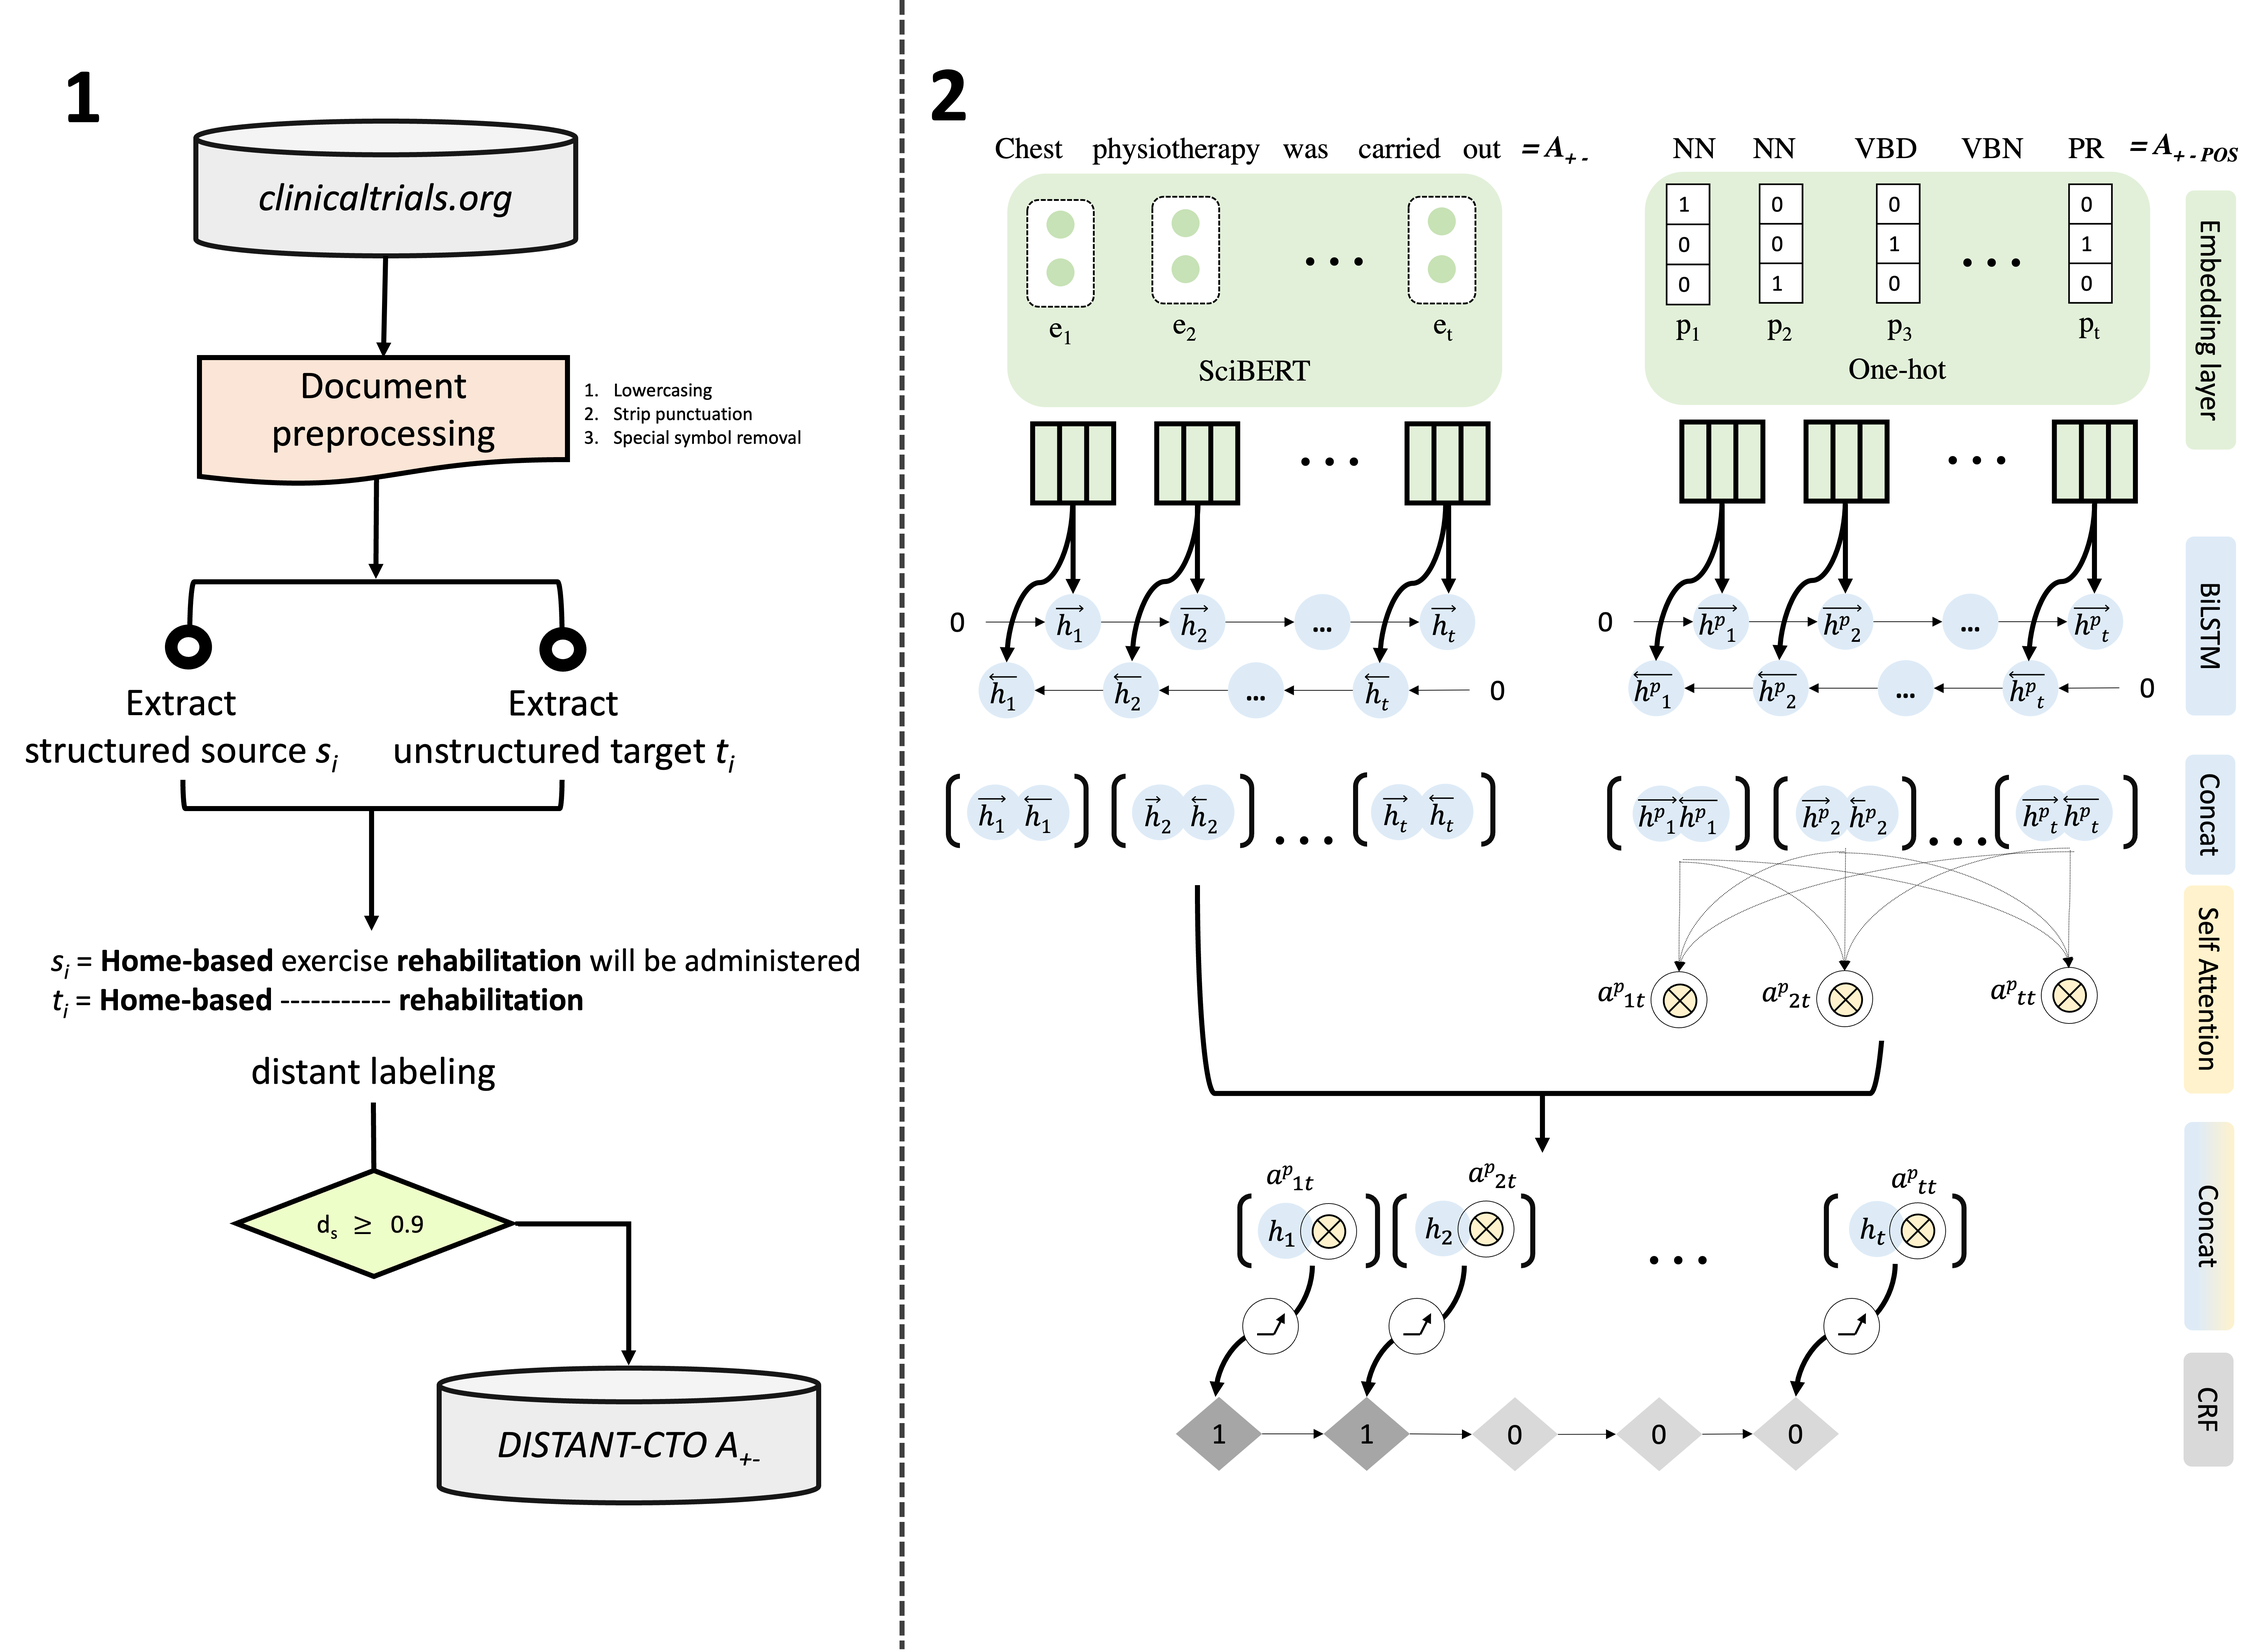
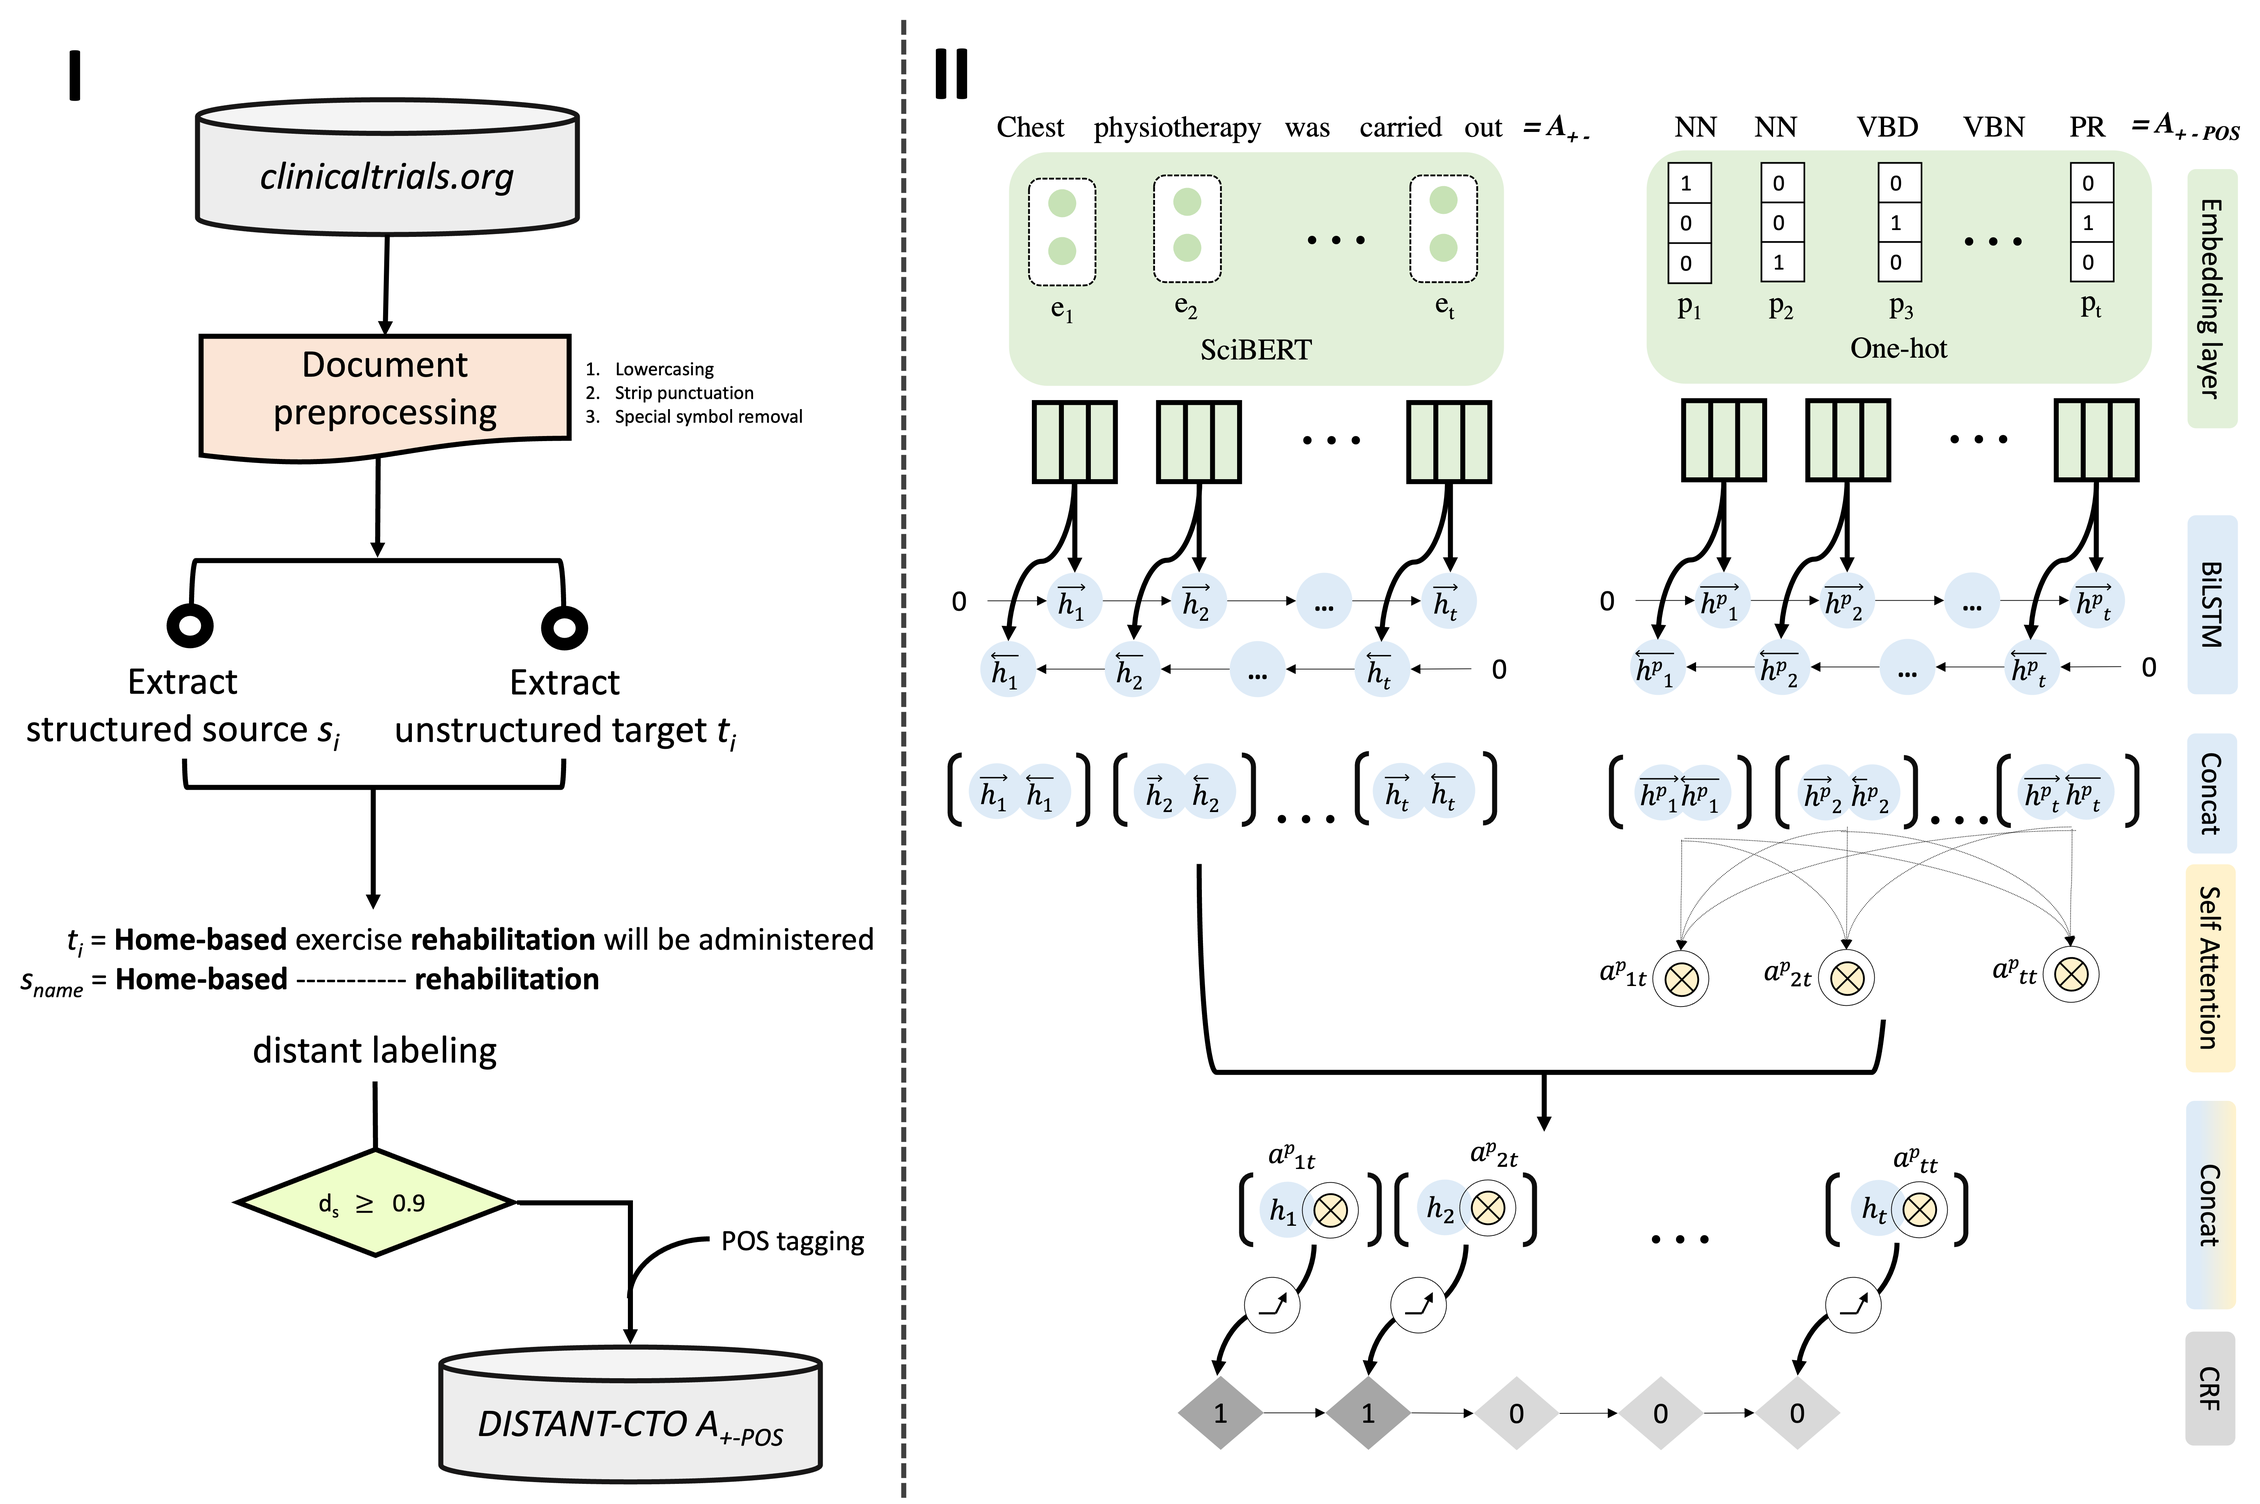
further changes according to BioNLP 2022 review

diff --git a/acl_latex.tex b/acl_latex.tex
@@ -115,7 +115,7 @@ We summarize our contributions as follows:
 %
 A decade of automatic PICO information extraction was limited to sentence-level due to the unavailability of entity-annotated corpora~\citep{boudin2010combining, huang2011classification, huang2013pico, wallace2016extracting, jin2018pico}.
 The release of the EBM-PICO corpus paved the way for the community to improve upon the PICO entity/span extraction task.~\citep{nye2018corpus}.
-The corpus is biased towards pharma intervention class overshadowing non-pharma ones leading to a substandard performance on it in the previous SOTA fully-supervised PICO entity/span recognition models~\citep{beltagy2019scibert,brockmeier2019improving,zhang2020unlocking} and weakly supervised PICO span recognition models~\citep{liu2021sent2span}.
+The corpus is biased towards pharma intervention class overshadowing non-pharma ones leading to a substandard performance on it in the previous SOTA fully-supervised PICO entity/span recognition models~\citep{beltagy2019scibert,brockmeier2019improving,zhang2020unlocking} and weakly supervised model~\citep{liu2021sent2span}.
 Small-scale annotation projects cannot capture the range and variation for the PICO descriptions spanning the entirety of clinical trials literature.
 At some point, applications of such static corpora will confront the problem of insufficient and irrelevant annotations.
 In reality, manual annotation projects are neither affordable nor scalable for every lab thereby limiting innovation.
@@ -241,12 +241,13 @@ Next, for all $A_{+-}$ instances we fetch part-of-the-speech (POS) tags using {\
 We call the resulting dataset DISTANT-CTO set.
 POS tags are added as additional features as they have shown to help model generalization~\cite{augenstein2017generalisation}.
 {\tt difflib} in combination with the internal scoring function are previously unexplored for automatic entity annotation generation.
+It has to be noted that the method depends on availability of short source texts with the possibility that they will be mentioned in longer target texts.
 %
 %
 %
 \begin{figure*}[ht]
     \centering
-    \includegraphics[width=\textwidth]{figures/process.png}
+    \includegraphics[width=0.98\textwidth]{figures/process.png}
     \caption{DISTANT-CTO approach - I) Distantly-supervised candidate generation approach, and II) Distantly-supervised NER model architecture.}
     \label{fig:approach}
 \end{figure*}
@@ -374,7 +375,7 @@ token-level & 1,515,868 & 43,096 \\
 %
 %
 Metrics for the manual evaluation of DISTANT-CTO using the validation set show that adding annotations with $d_s$ of 0.9 increases the recall by 3\% and hence the overall F1, however, leading to an expected drop in the precision (see Table ~\ref{tab:cangen_eval}).
-Finer characteristics of the DISTANT-CTO set are explained in the Appendix.
+%Finer characteristics of the DISTANT-CTO set are explained in the Appendix.
 
 \begin{table}[!htbp]
 \centering
@@ -493,7 +494,7 @@ Improving the coverage and reducing the false negatives (thereby improving recal
 Most false positives were a result of bigram matching. 
 We will modify fuzzy bigram matching to relevant bigram matching thereby reducing the occurrences of spurious false positive bigrams as matches.
 Only frequently occurring bigrams from the source will be matched to the targets.
-Additionally, we plan to explore the quality of DISTANT-CTO if $d_s$ score is lower than 0.9.
+We plan to explore the quality of DISTANT-CTO for $d_s \leq$ 0.9.
 %
 \begin{table}[ht]
     \centering
@@ -523,7 +524,8 @@ Additionally, we plan to explore the quality of DISTANT-CTO if $d_s$ score is lo
 %Addition of $d_s =$ 0.9 annotations while training with DISTANT-CTO alone, deteriorates metrics across the benchmarks increasing the errors (compare Figure~\ref{fig:NEReval1} with~\ref{fig:NEReval2}).
 %Addition of $d_s =$ 0.9 annotations, however, improves recall for the combined training with DISTANT-CTO and EBM-PICO for the pharma-dominant dataset.
 Manual error analysis was carried out for both the PICO benchmarks and the error counts for EBM-PICO gold are reported in Table~\ref{tab:error_ner}.
-Each token level error was divided into either of the four classes: 1) false negative (FN) - if the entire entity that the token as part of was missed out by the NER model prediction, 2) false positive (FP) - if the entire entity that the token was part of was falsely recognized as ``Intervention'', 3) boundary error (BE) - if the boundary tokens were missed out but otherwise the entity was identified by the NER model prediction, and 4) overlapping error (OE) - if the NER model made an error in the non-peripheral tokens of an otherwise identified entity mention. Non-peripheral tokens are all tokens except the first and the last token of the multi-token entity or span.
+Each token level error was divided into either of the four classes: 1) false negative (FN) - if the entire entity that the token as part of was missed out by the NER model prediction, 2) false positive (FP) - if the entire entity that the token was part of was falsely recognized as ``Intervention'', 3) boundary error (BE) - if the boundary tokens were missed out but otherwise the entity was identified by the NER model prediction, and 4) overlapping error (OE) - if the NER model made an error in the non-peripheral tokens of an otherwise identified entity mention.
+Non-peripheral tokens are all the tokens except the first and the last token of the multi-token entity/span.
 
 
 Models trained on DISTANT-CTO alone had fewer boundary and overlapping errors meaning they missed out on many ``Intervention'' entity signals leading to high precision, but compromised recall.
@@ -618,7 +620,7 @@ Out of the total retrieved mentions, almost two-thirds that get mapped to a targ
 %
 \begin{figure}[ht]
 \centering
-\includegraphics[width=0.90\columnwidth]{figures/mapped_unmapped_cmyk.jpeg}
+\includegraphics[width=0.80\columnwidth]{figures/mapped_unmapped_cmyk.jpeg}
 \caption{upper) Class distribution for the retrieved ``Intervention'' mentions, and lower) Class distribution for the mapped ``Intervention'' mention.}.
 \label{app:classdist}
 \end{figure}
@@ -708,7 +710,7 @@ This very well reflects with the numbers in figures~\ref{app:length_mappedunmapp
 \begin{figure}[hbt!]
 \centering
 \includegraphics[width=1.0\columnwidth]{figures/unmapped_class_dist_cmyk.jpeg}
-\caption{Top five semantic classes of the source intervention mentions that remain unmapped from the source to the target.}.
+\caption{Top five semantic classes of the source intervention mentions that remain unmapped to the target.}.
 \label{app:unmapped_class_dist}
 \end{figure}
 %
@@ -731,7 +733,7 @@ combination product & 3 \\
 %
 \begin{figure*}[hbt!]
 \centering
-\includegraphics[width=0.90\textwidth]{figures/mention_lengths_distribution_cmyk.jpeg}
+\includegraphics[width=0.80\textwidth]{figures/mention_lengths_distribution_cmyk.jpeg}
 \caption{Left) Phrase length distribution of mapped intervention mentions, Right) Phrase length distribution of unmapped intervention mentions.}.
 \label{app:length_mappedunmapped}
 \end{figure*}
